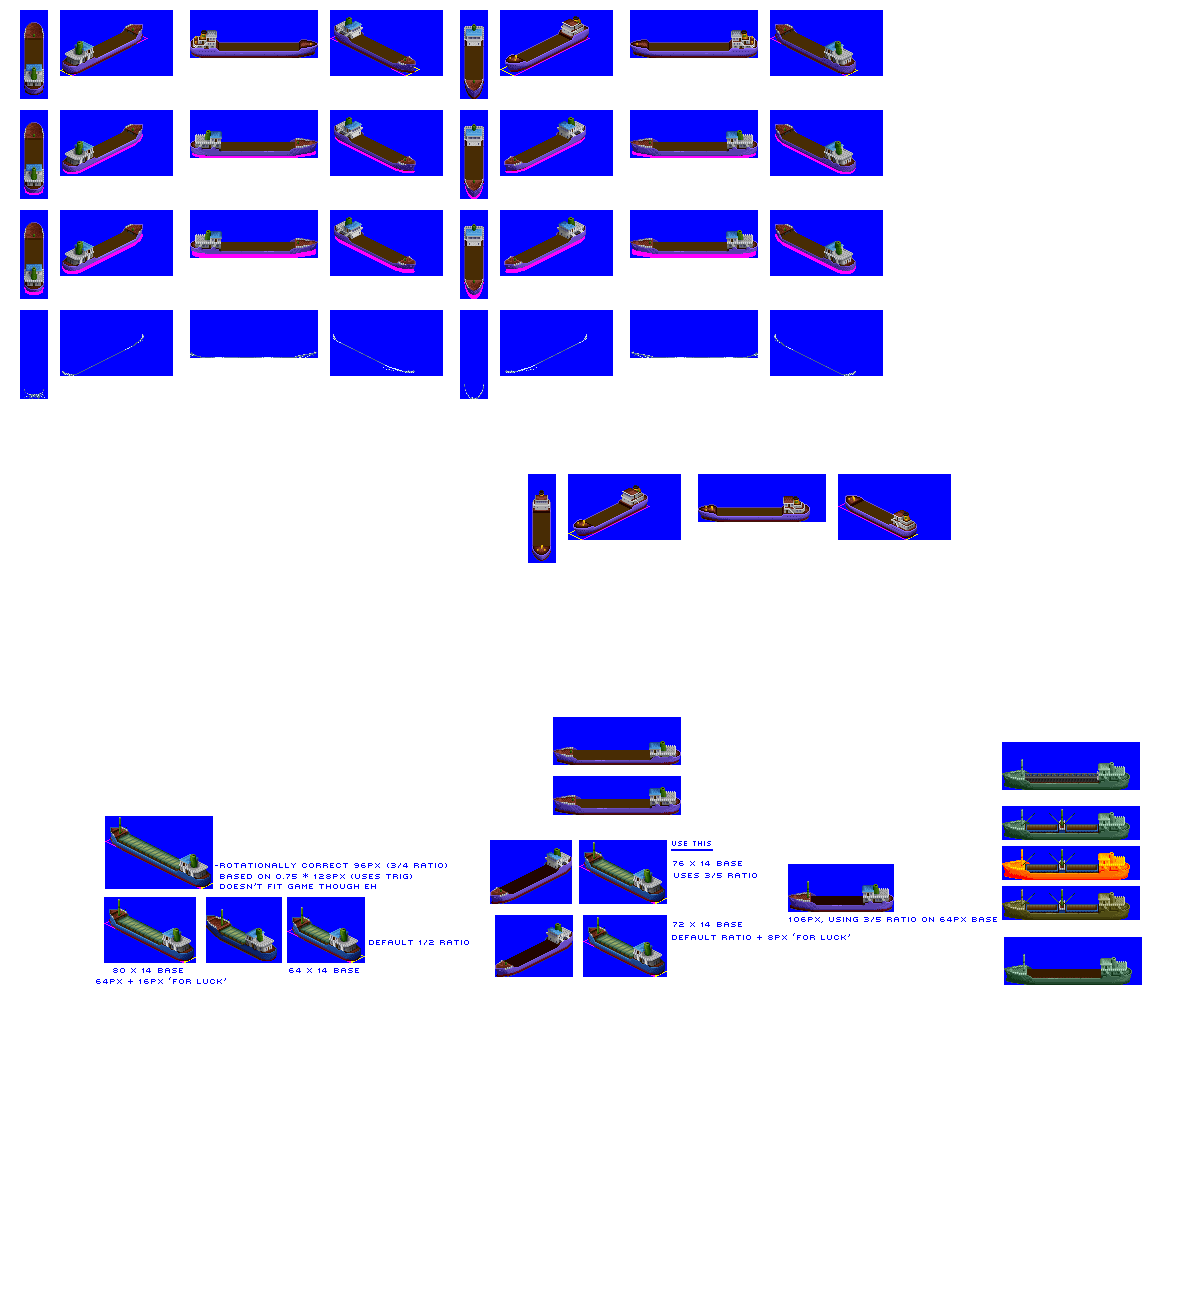
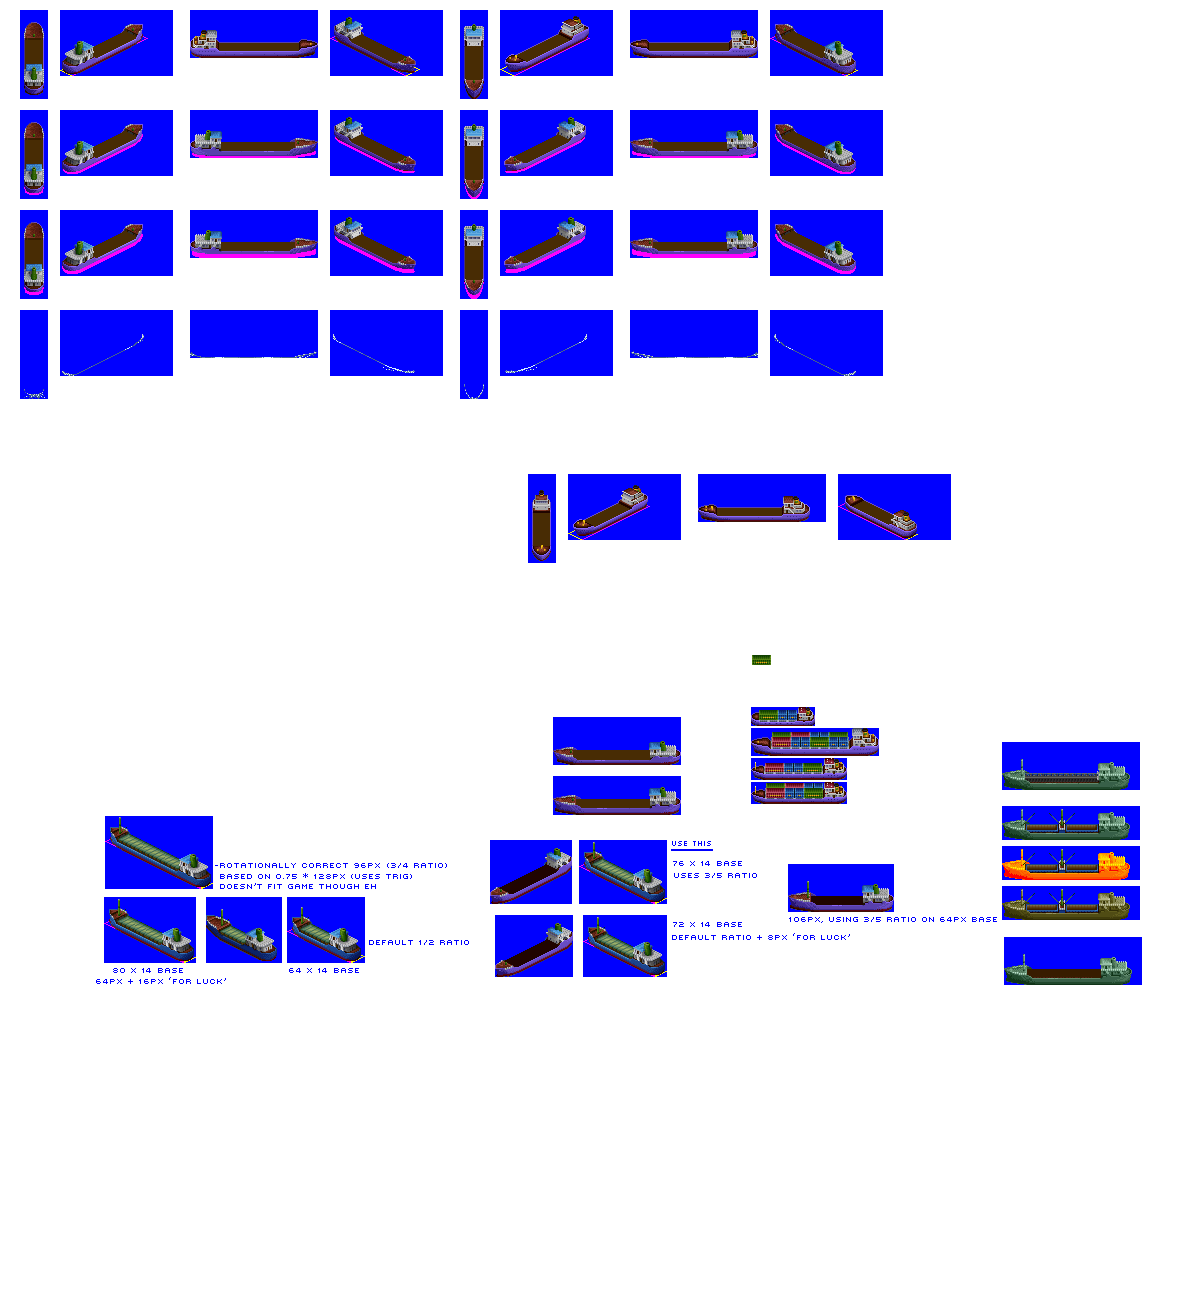
Change: WIP on reefer sprites

Changed region(s): [[0.6167, 0.4885, 0.74, 0.6107]]

diff --git a/src/ship.py b/src/ship.py
@@ -770,7 +770,9 @@ class Reefer(Ship):
         deck_recolour_map = {
             70: 1,
             60: 2,
+            71: 2,
             72: 3,
+            73: 4,
             123: 4,
             74: 5,
             75: 6,
